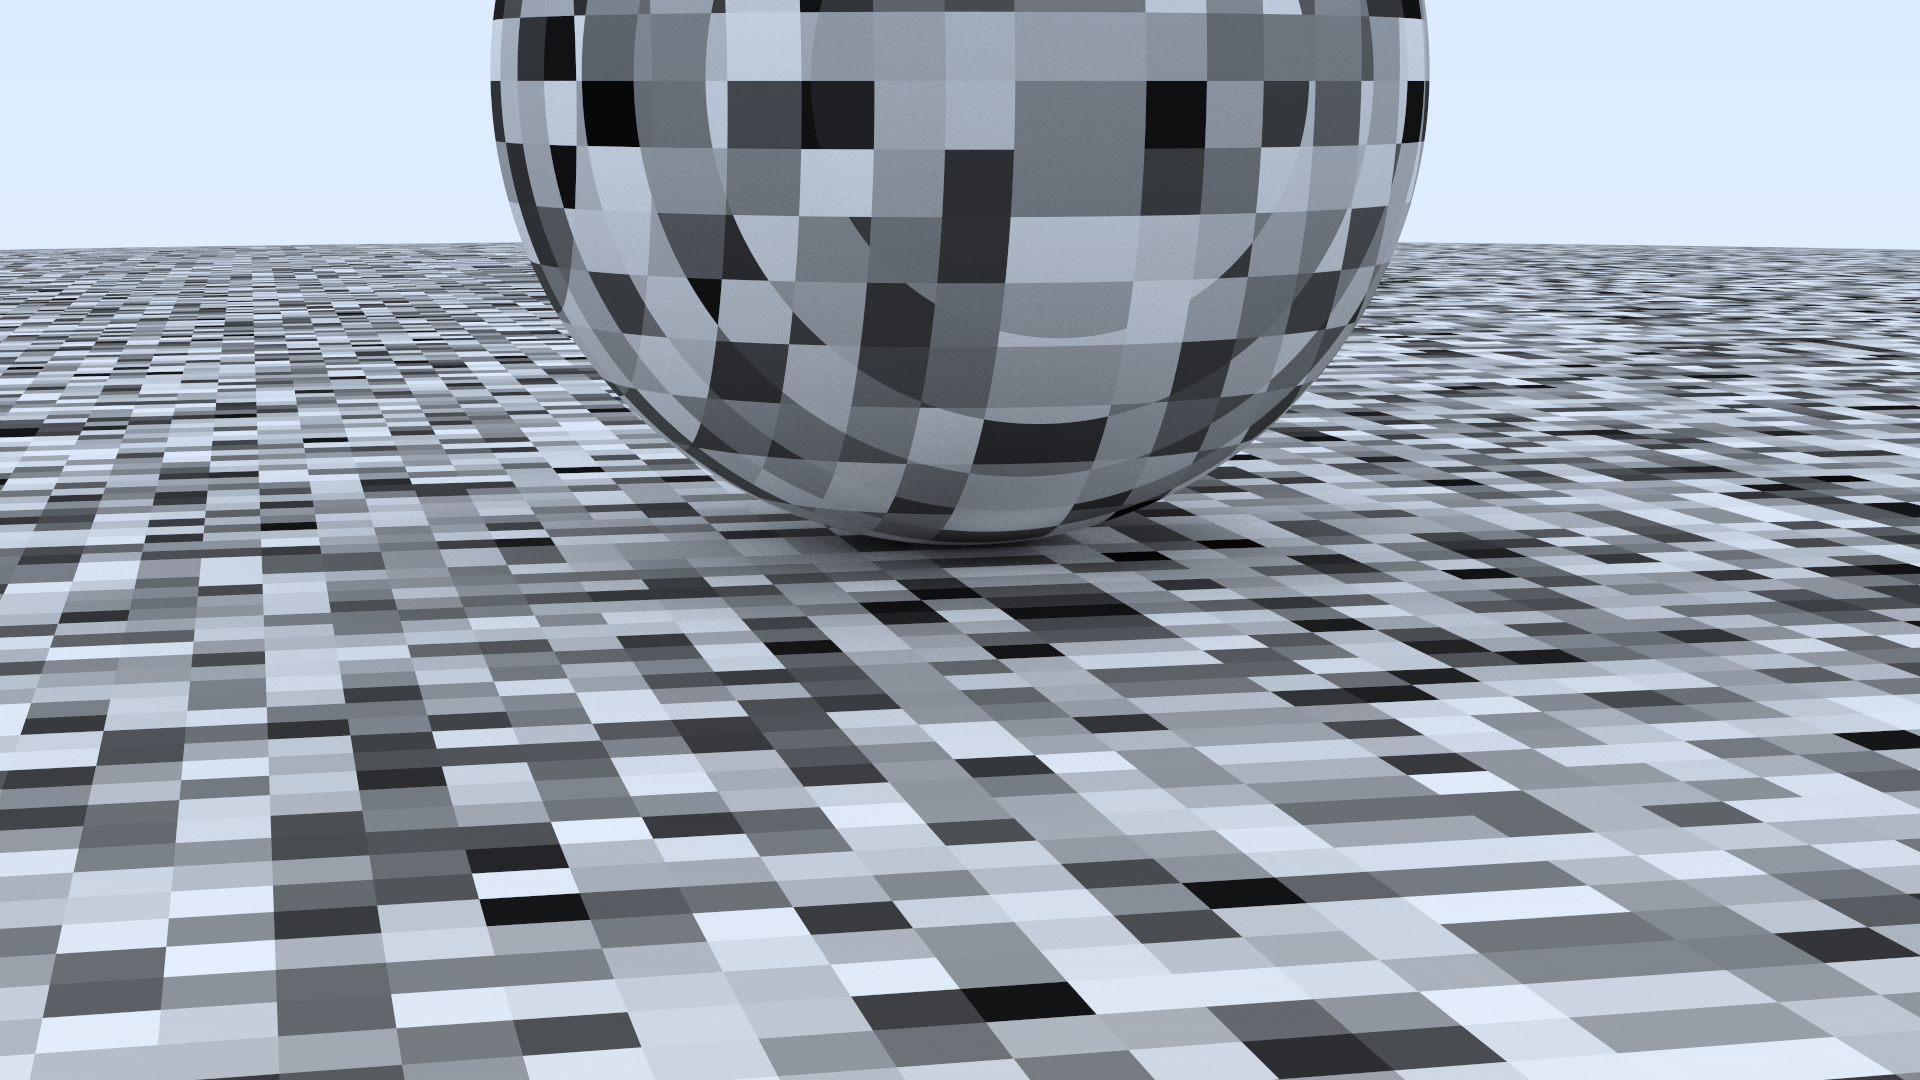
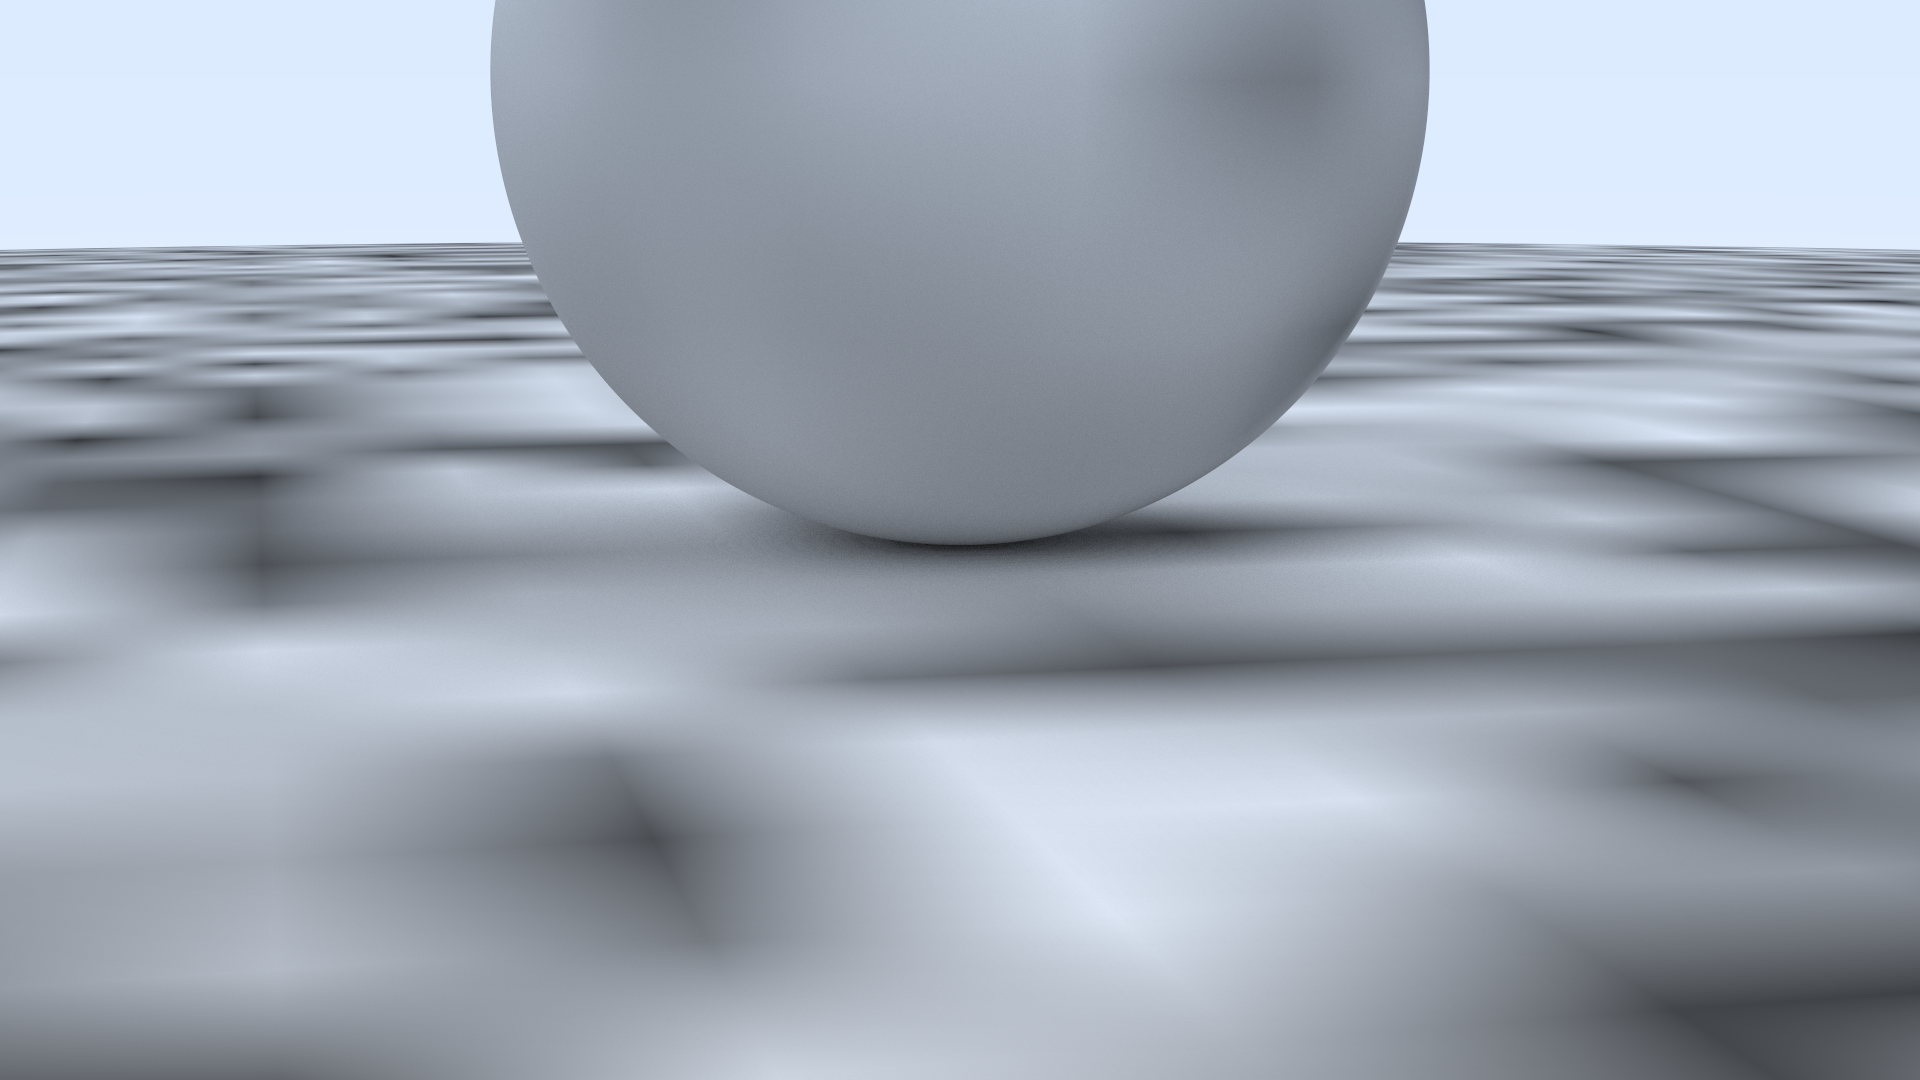
Perlin texture with trilinear interpolation

diff --git a/perlin.h b/perlin.h
@@ -15,11 +15,24 @@ public:
     }
 
     __device__ float noise(const point3 &p) const {
-        auto i = int(4 * p.x()) & 255;
-        auto j = int(4 * p.y()) & 255;
-        auto k = int(4 * p.z()) & 255;
+        auto u = p.x() - floorf(p.x());
+        auto v = p.y() - floorf(p.y());
+        auto w = p.z() - floorf(p.z());
 
-        return randfloat[perm_x[i] ^ perm_y[j] ^ perm_z[k]];
+        auto i = int(floorf(p.x()));
+        auto j = int(floorf(p.y()));
+        auto k = int(floorf(p.z()));
+
+        // 进行三线性插值平滑噪声
+        float c[2][2][2];
+        for (int di = 0; di < 2; di++)
+            for (int dj = 0; dj < 2; dj++)
+                for (int dk = 0; dk < 2; dk++)
+                    // x & 255: 将 x 截断成 0 - 255 的整数
+                    // ^ 进行异或哈希
+                    c[di][dj][dk] = randfloat[perm_x[(i + di) & 255] ^ perm_x[(j + dj) & 255] ^ perm_x[(k + dk) & 255]];
+
+        return trilinear_interp(c, u, v, w);
     }
 
 private:
@@ -29,19 +42,32 @@ private:
     int perm_y[point_count];
     int perm_z[point_count];
 
-    __device__  void perlin_generate_perm(int *p, curandState &rand_state) {
+    __device__ void perlin_generate_perm(int *p, curandState &rand_state) {
         for (int i = 0; i < point_count; i++)
             p[i] = i;
         permute(p, point_count, rand_state);
     }
 
-    __device__  void permute(int *p, int n, curandState &rand_state) {
+    __device__ void permute(int *p, int n, curandState &rand_state) {
         for (int i = n - 1; i > 0; i--) {
             int target = random_int(rand_state, 0, i);
             int tmp = p[i];
             p[i] = p[target];
             p[target] = tmp;
         }
+    }
+
+    __device__ float trilinear_interp(float c[2][2][2], float u, float v, float w) const{
+        // 三线性插值
+        auto accum = 0.0f;
+        for (int i = 0; i < 2; i++)
+            for (int j = 0; j < 2; j++)
+                for (int k = 0; k < 2; k++)
+                    accum += (i * u + (1 - i) * (1 - u))
+                            * (j * v + (1 - j) * (1 - v))
+                            * (k * w + (1 - k) * (1 - w))
+                            * c[i][j][k];
+        return accum;
     }
 };
 
